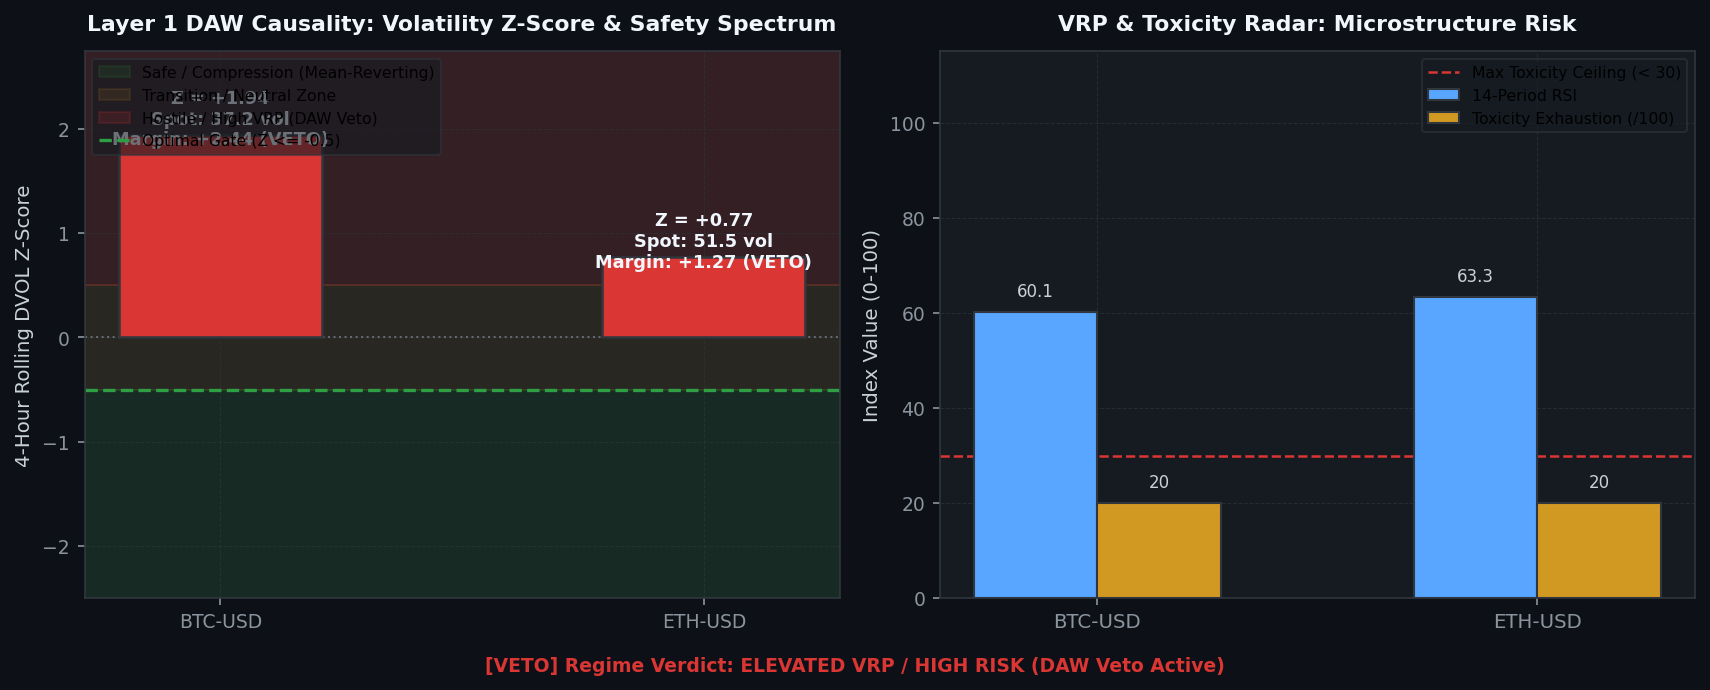
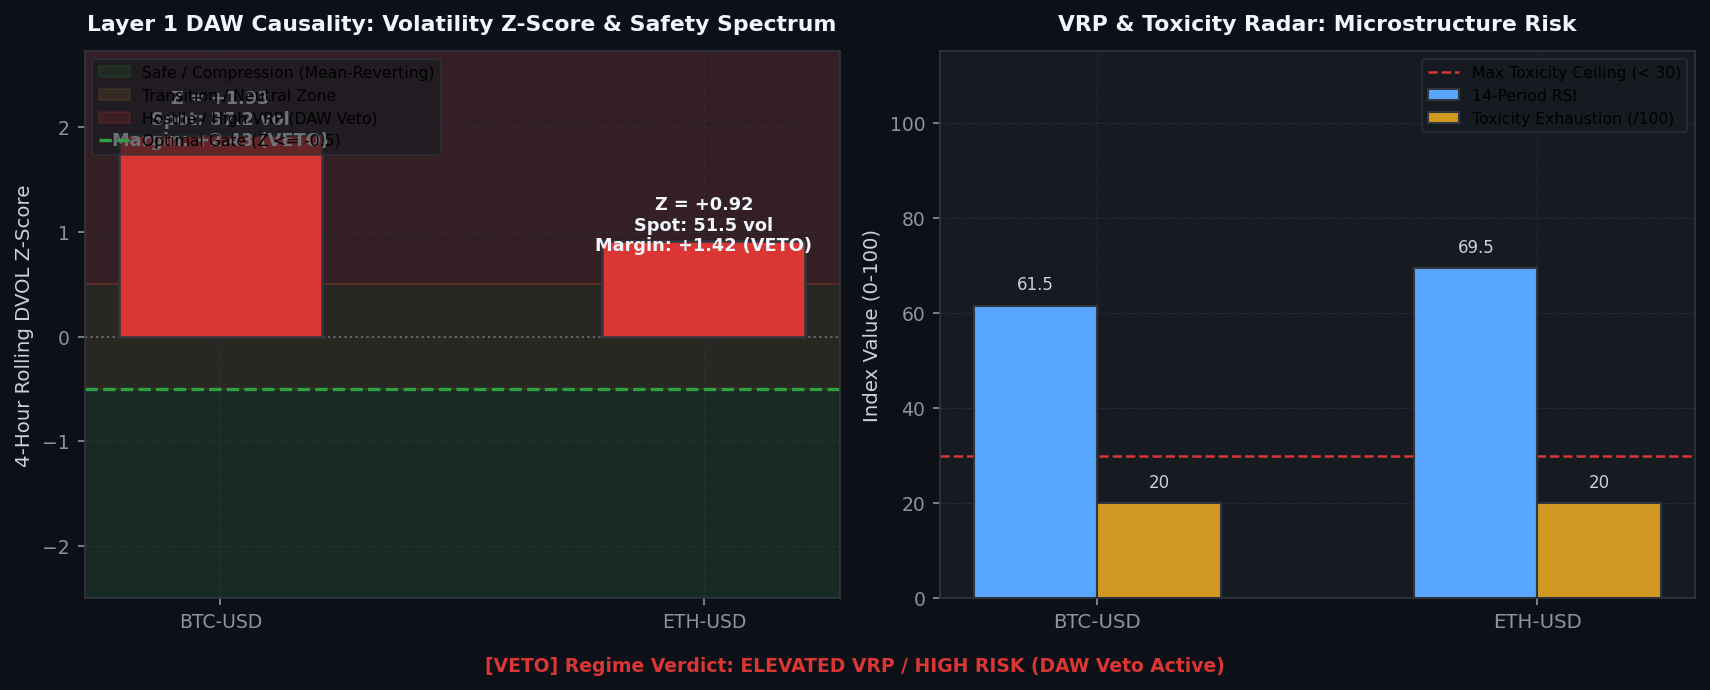
[coinbase] Hourly Status & Visual Intelligence Update: 2026-08-31 08:00:28

diff --git a/coinbase/data/hourly_status_report.md b/coinbase/data/hourly_status_report.md
@@ -3,7 +3,7 @@ layout: default
 ---
 
 # 🛡 Unified Trading System Hourly Status & Visual Intelligence
-> **Report Generated**: `2026-08-31 07:48:58 AM PDT (2026-08-31 14:48:58 UTC)`  
+> **Report Generated**: `2026-08-31 08:00:10 AM PDT (2026-08-31 15:00:10 UTC)`  
 > **System Health**: **🟡 DEGRADED / RESTRICTED** | **Win Rate**: `0.0%` | **Completed Trades**: `0`
 
 
@@ -15,13 +15,13 @@ Real-time Deribit implied volatility (DVOL) proxy tracking against mathematicall
 
 | Symbol | Proxy Oracle | Live Z-Score | Optimal Limit (YSP) | Safety Margin | Live VRP | Optimal VRP (YSP) | DAW Safety Verdict |
 | :--- | :--- | :--- | :--- | :--- | :--- | :--- | :--- |
-| `AVAX-USD` | DVOL_BTC | **+1.94** | **-0.50** | **+2.44** | **-0.53** | 5.0 | 🔴 DAW VETOED |
-| `ETH-USD` | DVOL_ETH | **+0.77** | **-0.50** | **+1.27** | **+13.05** | 5.0 | 🔴 DAW VETOED |
-| `ADA-USD` | DVOL_BTC | **+1.94** | **-0.50** | **+2.44** | **-0.72** | 5.0 | 🔴 DAW VETOED |
-| `DOGE-USD` | DVOL_BTC | **+1.94** | **-0.50** | **+2.44** | **-0.52** | 5.0 | 🔴 DAW VETOED |
-| `BTC-USD` | DVOL_BTC | **+1.94** | **-0.50** | **+2.44** | **-0.72** | 5.0 | 🔴 DAW VETOED |
-| `LINK-USD` | DVOL_BTC | **+1.94** | **-0.50** | **+2.44** | **+0.10** | 5.0 | 🔴 DAW VETOED |
-| `SOL-USD` | DVOL_BTC | **+1.94** | **-0.50** | **+2.44** | **-0.72** | 5.0 | 🔴 DAW VETOED |
+| `AVAX-USD` | DVOL_BTC | **+1.93** | **-0.50** | **+2.43** | **-1.17** | 5.0 | 🔴 DAW VETOED |
+| `ETH-USD` | DVOL_ETH | **+0.89** | **-0.50** | **+1.39** | **+12.62** | 5.0 | 🔴 DAW VETOED |
+| `ADA-USD` | DVOL_BTC | **+1.93** | **-0.50** | **+2.43** | **-1.17** | 5.0 | 🔴 DAW VETOED |
+| `DOGE-USD` | DVOL_BTC | **+1.93** | **-0.50** | **+2.43** | **-1.18** | 5.0 | 🔴 DAW VETOED |
+| `BTC-USD` | DVOL_BTC | **+1.93** | **-0.50** | **+2.43** | **-1.68** | 5.0 | 🔴 DAW VETOED |
+| `LINK-USD` | DVOL_BTC | **+1.93** | **-0.50** | **+2.43** | **-1.17** | 5.0 | 🔴 DAW VETOED |
+| `SOL-USD` | DVOL_BTC | **+1.93** | **-0.50** | **+2.43** | **-1.68** | 5.0 | 🔴 DAW VETOED |
 
 
 
@@ -37,16 +37,16 @@ We hereby certify that the mission-critical algorithmic data assets uploaded by 
 
 | Status | Data Asset | Freshness / State | Details / Timestamp |
 | :---: | :--- | :--- | :--- |
-| ✅ | **Go-List JSON** | Fresh (6.59h old) | 08-31 01:13 |
-| ✅ | **TimesFM Forecasts** | Fresh (2.94h old) | 08-31 04:52 |
-| ✅ | **Holding Times config** | Fresh (6.60h old) | 08-31 01:13 |
-| ✅ | **BTC DVOL Cache** | Fresh (0.00h old) | 08-31 07:48 |
-| ✅ | **ETH DVOL Cache** | Fresh (0.00h old) | 08-31 07:49 |
-| ✅ | **Live Trading Telemetry** | Fresh (0.00h old) | 08-31 07:49 |
+| ✅ | **Go-List JSON** | Fresh (6.78h old) | 08-31 01:13 |
+| ✅ | **TimesFM Forecasts** | Fresh (3.13h old) | 08-31 04:52 |
+| ✅ | **Holding Times config** | Fresh (6.79h old) | 08-31 01:13 |
+| ✅ | **BTC DVOL Cache** | Fresh (0.00h old) | 08-31 08:00 |
+| ✅ | **ETH DVOL Cache** | Fresh (0.01h old) | 08-31 07:59 |
+| ✅ | **Live Trading Telemetry** | Fresh (0.00h old) | 08-31 08:00 |
 
 <br>
 
-> **Utilization Certification**: ✅ **CERTIFIED.** The Guardian Watchdog is ONLINE and EC2 traders are actively querying the freshest MLOps data artifacts (Found 1934 recent read events).
+> **Utilization Certification**: ✅ **CERTIFIED.** The Guardian Watchdog is ONLINE and EC2 traders are actively querying the freshest MLOps data artifacts (Found 1926 recent read events).
 
 
 ---
@@ -55,7 +55,7 @@ Layer-by-layer tick evaluation waterfall and asset-specific performance tracking
 
 | Funnel Filter Layer | Total Rejections | % of Rejections |
 | :--- | :--- | :--- |
-| Tier 1: Macro Volatility Tensor Gate (Omega_macro) | `50,502` | **100.0%** |
+| Tier 1: Macro Volatility Tensor Gate (Omega_macro) | `50,680` | **100.0%** |
 | Tier 2: Unified Transport & Directional Engine | `0` | **0.0%** |
 | Tier 3: Continuous Hawkes-SFGK Pricer (HAS-Pricer) | `0` | **0.0%** |
 | System: Asset Cooldown Active | `0` | **0.0%** |
@@ -69,8 +69,8 @@ Layer-by-layer tick evaluation waterfall and asset-specific performance tracking
 | Asset | Trades | Win Rate | Loss Streak | Status |
 | :--- | :--- | :--- | :--- | :--- |
 | `BTC-USD` | 11 | 45.5% | 1 | 🟢 OK |
-| `ADA-USD` | 64 | 65.6% | 0 | 🟢 OK |
-| `DOGE-USD` | 50 | 68.0% | 0 | 🟢 OK |
+| `ADA-USD` | 65 | 66.2% | 0 | 🟢 OK |
+| `DOGE-USD` | 51 | 68.6% | 0 | 🟢 OK |
 | `ETH-USD` | 23 | 65.2% | 1 | 🟢 OK |
 | `LINK-USD` | 57 | 75.4% | 0 | 🟢 OK |
 | `AVAX-USD` | 46 | 73.9% | 0 | 🟢 OK |
@@ -90,12 +90,12 @@ Live balance sheet and open maker liquidity positions from Coinbase CDP.
 | `USDT-USD` | SELL | 0.99981 | `92f08680-d898-474d-b832-eba9fa2a0153` |
 | `USDT-USD` | SELL | 0.99979 | `b6223ed6-7279-4922-bd37-08d329fd5a7c` |
 | `USDT-USD` | SELL | 0.99978 | `5fc38c70-d51a-4b9c-8110-8c892231f119` |
-| `USDT-USD` | BUY | 0.99969 | `e9a83920-d6d5-4d89-961d-ff6e705065fe` |
-| `USDT-USD` | BUY | 0.99969 | `d4a1cebe-193e-4e6d-b9ea-aa060db15630` |
-| `USDT-USD` | BUY | 0.99969 | `a9bdedce-cf06-4913-ad0a-b340f9fe93ed` |
-| `USDT-USD` | BUY | 0.99969 | `d659aa4a-e6f5-4df3-87ce-2bc66f2d5e44` |
-| `USDT-USD` | SELL | 0.9997 | `90f9746f-9385-40c2-989a-7f7e6fdab848` |
-| `USDT-USD` | SELL | 0.9997 | `7f721cba-1d35-48e4-b9b3-d031f7b0e8e3` |
+| `DOGE-USD` | BUY | 0.08294 | `1d97ef5c-d77b-4ddb-830c-9ae5b5a82bd5` |
+| `USDT-USD` | SELL | 0.99971 | `ab89a293-d56d-453d-ac92-248e711d4646` |
+| `USDT-USD` | SELL | 0.99971 | `bf669f9e-83af-4c79-b0b6-ca08d827da70` |
+| `USDT-USD` | SELL | 0.99971 | `59e18d15-851e-40bb-adb0-d556fb2bd82b` |
+| `USDT-USD` | SELL | 0.99971 | `123d7951-f5d1-4818-9c76-130373f5c61d` |
+| `USDT-USD` | SELL | 0.99971 | `8f086193-7caf-4c26-a093-2601cf36fb0a` |
 
 
 
@@ -103,14 +103,14 @@ Live balance sheet and open maker liquidity positions from Coinbase CDP.
 ## 4. 🤖 Foundation Model MLOps & Pipeline Orchestration
 Weekly Algorithmic Mega Cap selection, Zero-shot multi-step forward return forecasts, and VSTEF parameter grid search status.
 
-- **TimesFM Forecast DB**: 🟢 Updated 2.9h ago (2026-08-31 04:52 AM PDT)
+- **TimesFM Forecast DB**: 🟢 Updated 3.1h ago (2026-08-31 04:52 AM PDT)
 - **Last Weekly VSTEF Optimization**: `2026-08-05 09:22:38 AM PDT`
-- **Next Scheduled VSTEF Run**: `2026-09-06 07:00:00 PM PDT (Monday 02:00 UTC)` (Countdown: **155.2h (6d 11h 10m)**)
+- **Next Scheduled VSTEF Run**: `2026-09-06 07:00:00 PM PDT (Monday 02:00 UTC)` (Countdown: **155.0h (6d 10h 59m)**)
 - **Promoted Parameter Gates**: $Z_{DVOL} \le -0.5$ | Holding Horizon $= 12\text{h}$
 
 ### Algorithmic Mega Cap Selection
 - **Last Run (Confirmation)**: `2026-08-31 01:13:25 AM PDT`
-- **Next Scheduled Run**: `2026-09-06 06:00:00 PM PDT (Monday 01:00 UTC)` (Countdown: **154.2h (6d 10h 10m)**)
+- **Next Scheduled Run**: `2026-09-06 06:00:00 PM PDT (Monday 01:00 UTC)` (Countdown: **154.0h (6d 9h 59m)**)
 - **Selected Mega Cap Universe**: `BTC, ETH, DOGE, HNT, XRP, SOL, ZEC`
 
 
@@ -124,20 +124,20 @@ Visualizing the impact of the VSTEF (Volatility-Synchronized Stop-Tightening Exe
 ## 5. 🖥 Multi-Node Infrastructure & Watchdog Matrix
 ```text
 ================================================================================
-   🛡  SFGK FUNNEL GUARDIAN WATCHDOG (HFT ONLY) |  02:48:54 PM
-   CPU:  11.5%  |  MEM:   6.1% (14.5GB / 15.4GB Free)
+   🛡  SFGK FUNNEL GUARDIAN WATCHDOG (HFT ONLY) |  03:00:06 PM
+   CPU:  14.9%  |  MEM:   6.4% (14.4GB / 15.4GB Free)
 ================================================================================
 SERVICE              | PID      | STATUS          | RESTARTS | INFO
 --------------------------------------------------------------------------------
 L3 Consumer          | 2155984  | RUNNING         | -        | Continuous Websocket Feed
 MAO Daemon           | 2155990  | RUNNING         | -        | Oracle Yield Analysis
 U/U Farmer           | 2155992  | RUNNING         | -        | Volume Farmer
-Trader AVAX-USD      | 2197864  | COOL-DOWN       | 68       | Next run in 14.7s
-Trader ETH-USD       | 2197719  | COOL-DOWN       | 116      | Next run in 4.0s
-Trader ADA-USD       | 2197755  | COOL-DOWN       | 11       | Next run in 9.5s
-Trader DOGE-USD      | 2197986  | RUNNING         | 34       | Evaluating Funnel/Polling Order
-Trader BTC-USD       | 2197756  | COOL-DOWN       | 143      | Next run in 9.5s
-Trader LINK-USD      | 2196254  | RUNNING         | 16       | Evaluating Funnel/Polling Order
+Trader AVAX-USD      | 2207349  | COOL-DOWN       | 99       | Next run in 4.0s
+Trader ETH-USD       | 2207370  | COOL-DOWN       | 148      | Next run in 14.5s
+Trader ADA-USD       | 2207363  | COOL-DOWN       | 28       | Next run in 9.3s
+Trader DOGE-USD      | 2205950  | RUNNING         | 48       | Evaluating Funnel/Polling Order
+Trader BTC-USD       | 2207377  | RUNNING         | 175      | Evaluating Funnel/Polling Order
+Trader LINK-USD      | 2207350  | COOL-DOWN       | 41       | Next run in 4.0s
 ```
 
 ---

diff --git a/coinbase/data/visual_intelligence.md b/coinbase/data/visual_intelligence.md
@@ -4,7 +4,7 @@ title: Visual Intelligence Gallery
 ---
 
 # 📈 Visual Intelligence Gallery
-> **Generated:** `2026-08-31 07:49:16`
+> **Generated:** `2026-08-31 08:00:28`
 > **[Return to Main Status Report](./hourly_status_report.md)**
 
 This page visualizes the internal states, market profiles, and decision criteria of the active **3-Tier Fused Decision Engine** across all layers.
